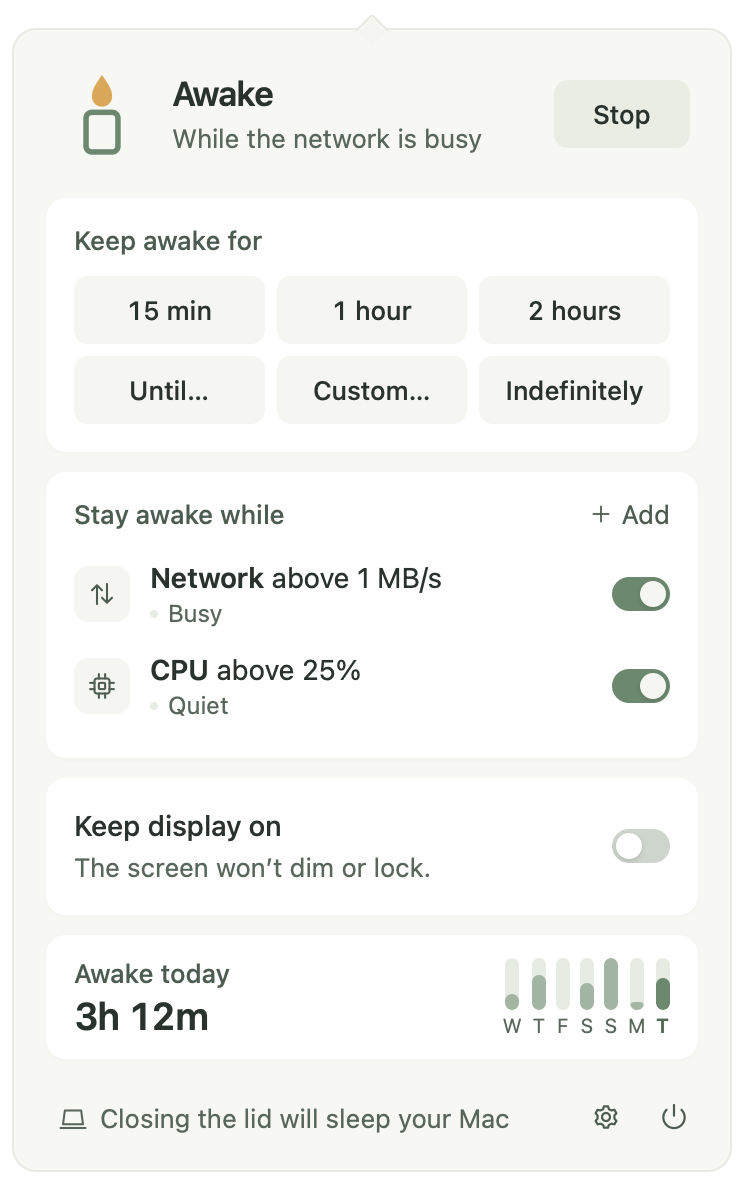
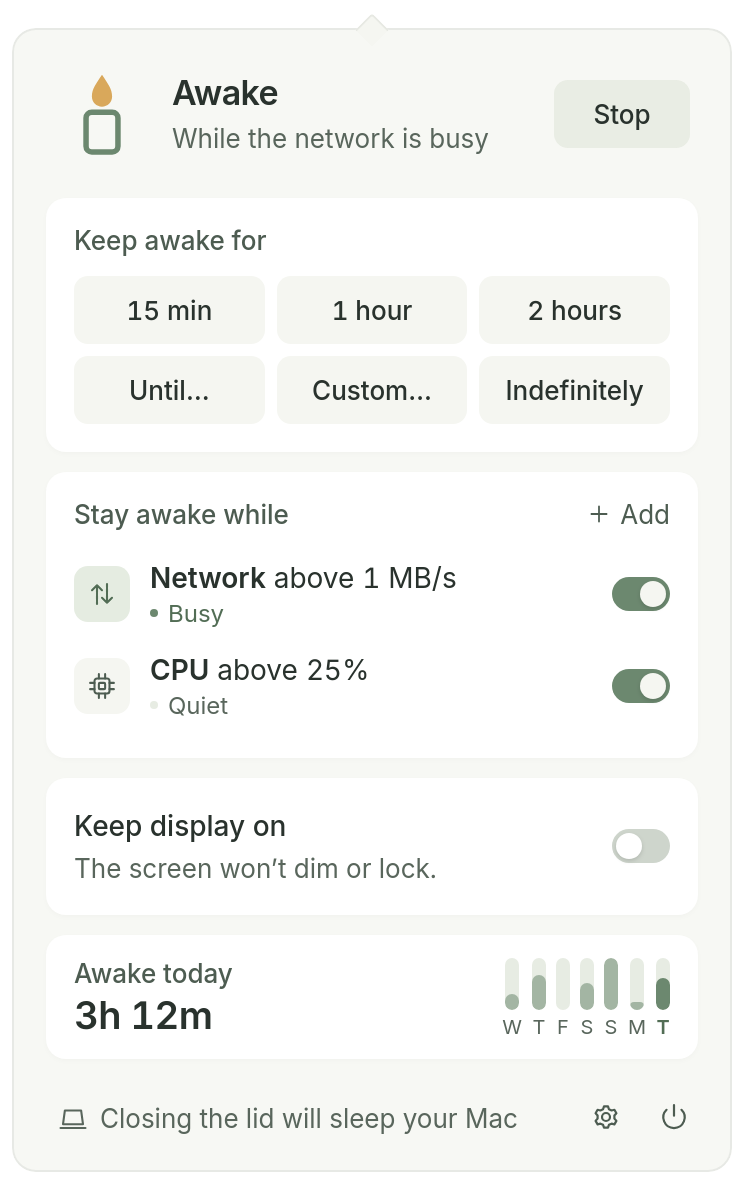
chore(release): prepare v0.8.0
Version 0.8.0, its changelog and CHANGELOG row, and download links
pointing at v0.8.0 with a row for the Linux arm64 AppImage, deb and
rpm. v0.7.2 was never released; its arm64 notes are part of v0.8.0.
The popover screenshots and the social image show the active styling
for conditions.

diff --git a/README.md b/README.md
@@ -24,13 +24,14 @@
 
 ## Install
 
-Download **v0.7.1** from [GitHub Releases](https://github.com/Abulkosim/wick/releases/latest).
+Download **v0.8.0** from [GitHub Releases](https://github.com/Abulkosim/wick/releases/latest).
 
 | Platform | Download |
 | --- | --- |
-| macOS 12+ · Apple Silicon and Intel | [Universal DMG](https://github.com/Abulkosim/wick/releases/download/v0.7.1/Wick_0.7.1_universal.dmg) |
-| Windows 10/11 x64 | [Setup EXE](https://github.com/Abulkosim/wick/releases/download/v0.7.1/Wick_0.7.1_x64-setup.exe) · [MSI](https://github.com/Abulkosim/wick/releases/download/v0.7.1/Wick_0.7.1_x64_en-US.msi) |
-| Linux x86_64 · Ubuntu 22.04, Debian 12, Fedora 36 and newer | [AppImage](https://github.com/Abulkosim/wick/releases/download/v0.7.1/Wick_0.7.1_amd64.AppImage) · [deb](https://github.com/Abulkosim/wick/releases/download/v0.7.1/Wick_0.7.1_amd64.deb) · [rpm](https://github.com/Abulkosim/wick/releases/download/v0.7.1/Wick-0.7.1-1.x86_64.rpm) |
+| macOS 12+ · Apple Silicon and Intel | [Universal DMG](https://github.com/Abulkosim/wick/releases/download/v0.8.0/Wick_0.8.0_universal.dmg) |
+| Windows 10/11 x64 | [Setup EXE](https://github.com/Abulkosim/wick/releases/download/v0.8.0/Wick_0.8.0_x64-setup.exe) · [MSI](https://github.com/Abulkosim/wick/releases/download/v0.8.0/Wick_0.8.0_x64_en-US.msi) |
+| Linux x86_64 · Ubuntu 22.04, Debian 12, Fedora 36 and newer | [AppImage](https://github.com/Abulkosim/wick/releases/download/v0.8.0/Wick_0.8.0_amd64.AppImage) · [deb](https://github.com/Abulkosim/wick/releases/download/v0.8.0/Wick_0.8.0_amd64.deb) · [rpm](https://github.com/Abulkosim/wick/releases/download/v0.8.0/Wick-0.8.0-1.x86_64.rpm) |
+| Linux arm64 · same distributions | [AppImage](https://github.com/Abulkosim/wick/releases/download/v0.8.0/Wick_0.8.0_aarch64.AppImage) · [deb](https://github.com/Abulkosim/wick/releases/download/v0.8.0/Wick_0.8.0_arm64.deb) · [rpm](https://github.com/Abulkosim/wick/releases/download/v0.8.0/Wick-0.8.0-1.aarch64.rpm) |
 
 **Homebrew** (macOS):
 

diff --git a/changelogs/v0.8.0.md b/changelogs/v0.8.0.md
@@ -1,0 +1,12 @@
+# v0.8.0
+
+2026-11-10 · [Download](https://github.com/Abulkosim/wick/releases/tag/v0.8.0)
+
+- Wick runs on ARM Linux, such as a Raspberry Pi 4 or 5 with a desktop, ARM laptops and ARM virtual machines: `Wick_0.8.0_aarch64.AppImage`, `Wick_0.8.0_arm64.deb` or `Wick-0.8.0-1.aarch64.rpm`.
+- `wick://toggle` and other links work on Windows and Linux while Wick is running. They used to run twice, so a toggle turned the session on and straight off.
+- Times are 24-hour everywhere, for example "Awake until 16:30", matching schedules, the tray and notifications.
+- When the shortcut, a click on the icon or a link can't start a session, a notification says why, for example "Not started: battery below 20%".
+- Setting the clock back no longer lets a Mac sleep before its session ends.
+- Updating on Windows keeps a running session going.
+- Power, display, schedule and activity triggers that are keeping the computer awake are highlighted like running apps.
+- In the add-trigger form, arrow keys move between options, and Escape closes the Until and Custom editor. Screen readers announce changes without reading the countdown every minute.

diff --git a/CHANGELOG.md b/CHANGELOG.md
@@ -2,7 +2,7 @@
 
 | Version | Date (UTC) | Changes |
 | --- | --- | --- |
-| [v0.7.2](changelogs/v0.7.2.md) | 2026-11-10 | Linux arm64: AppImage, deb and rpm. |
+| [v0.8.0](changelogs/v0.8.0.md) | 2026-11-10 | Linux arm64, 24-hour times, links that run once, keyboard and screen reader fixes. |
 | [v0.7.1](changelogs/v0.7.1.md) | 2026-11-05 | Linux fixes: display on Xfce, the no-tray window, chargers, battery level. |
 | [v0.7.0](changelogs/v0.7.0.md) | 2026-11-05 | Linux: AppImage, deb and rpm, with tray, inhibitors and updates. |
 | [v0.6.0](changelogs/v0.6.0.md) | 2026-10-31 | Notifications when a trigger ends. |
